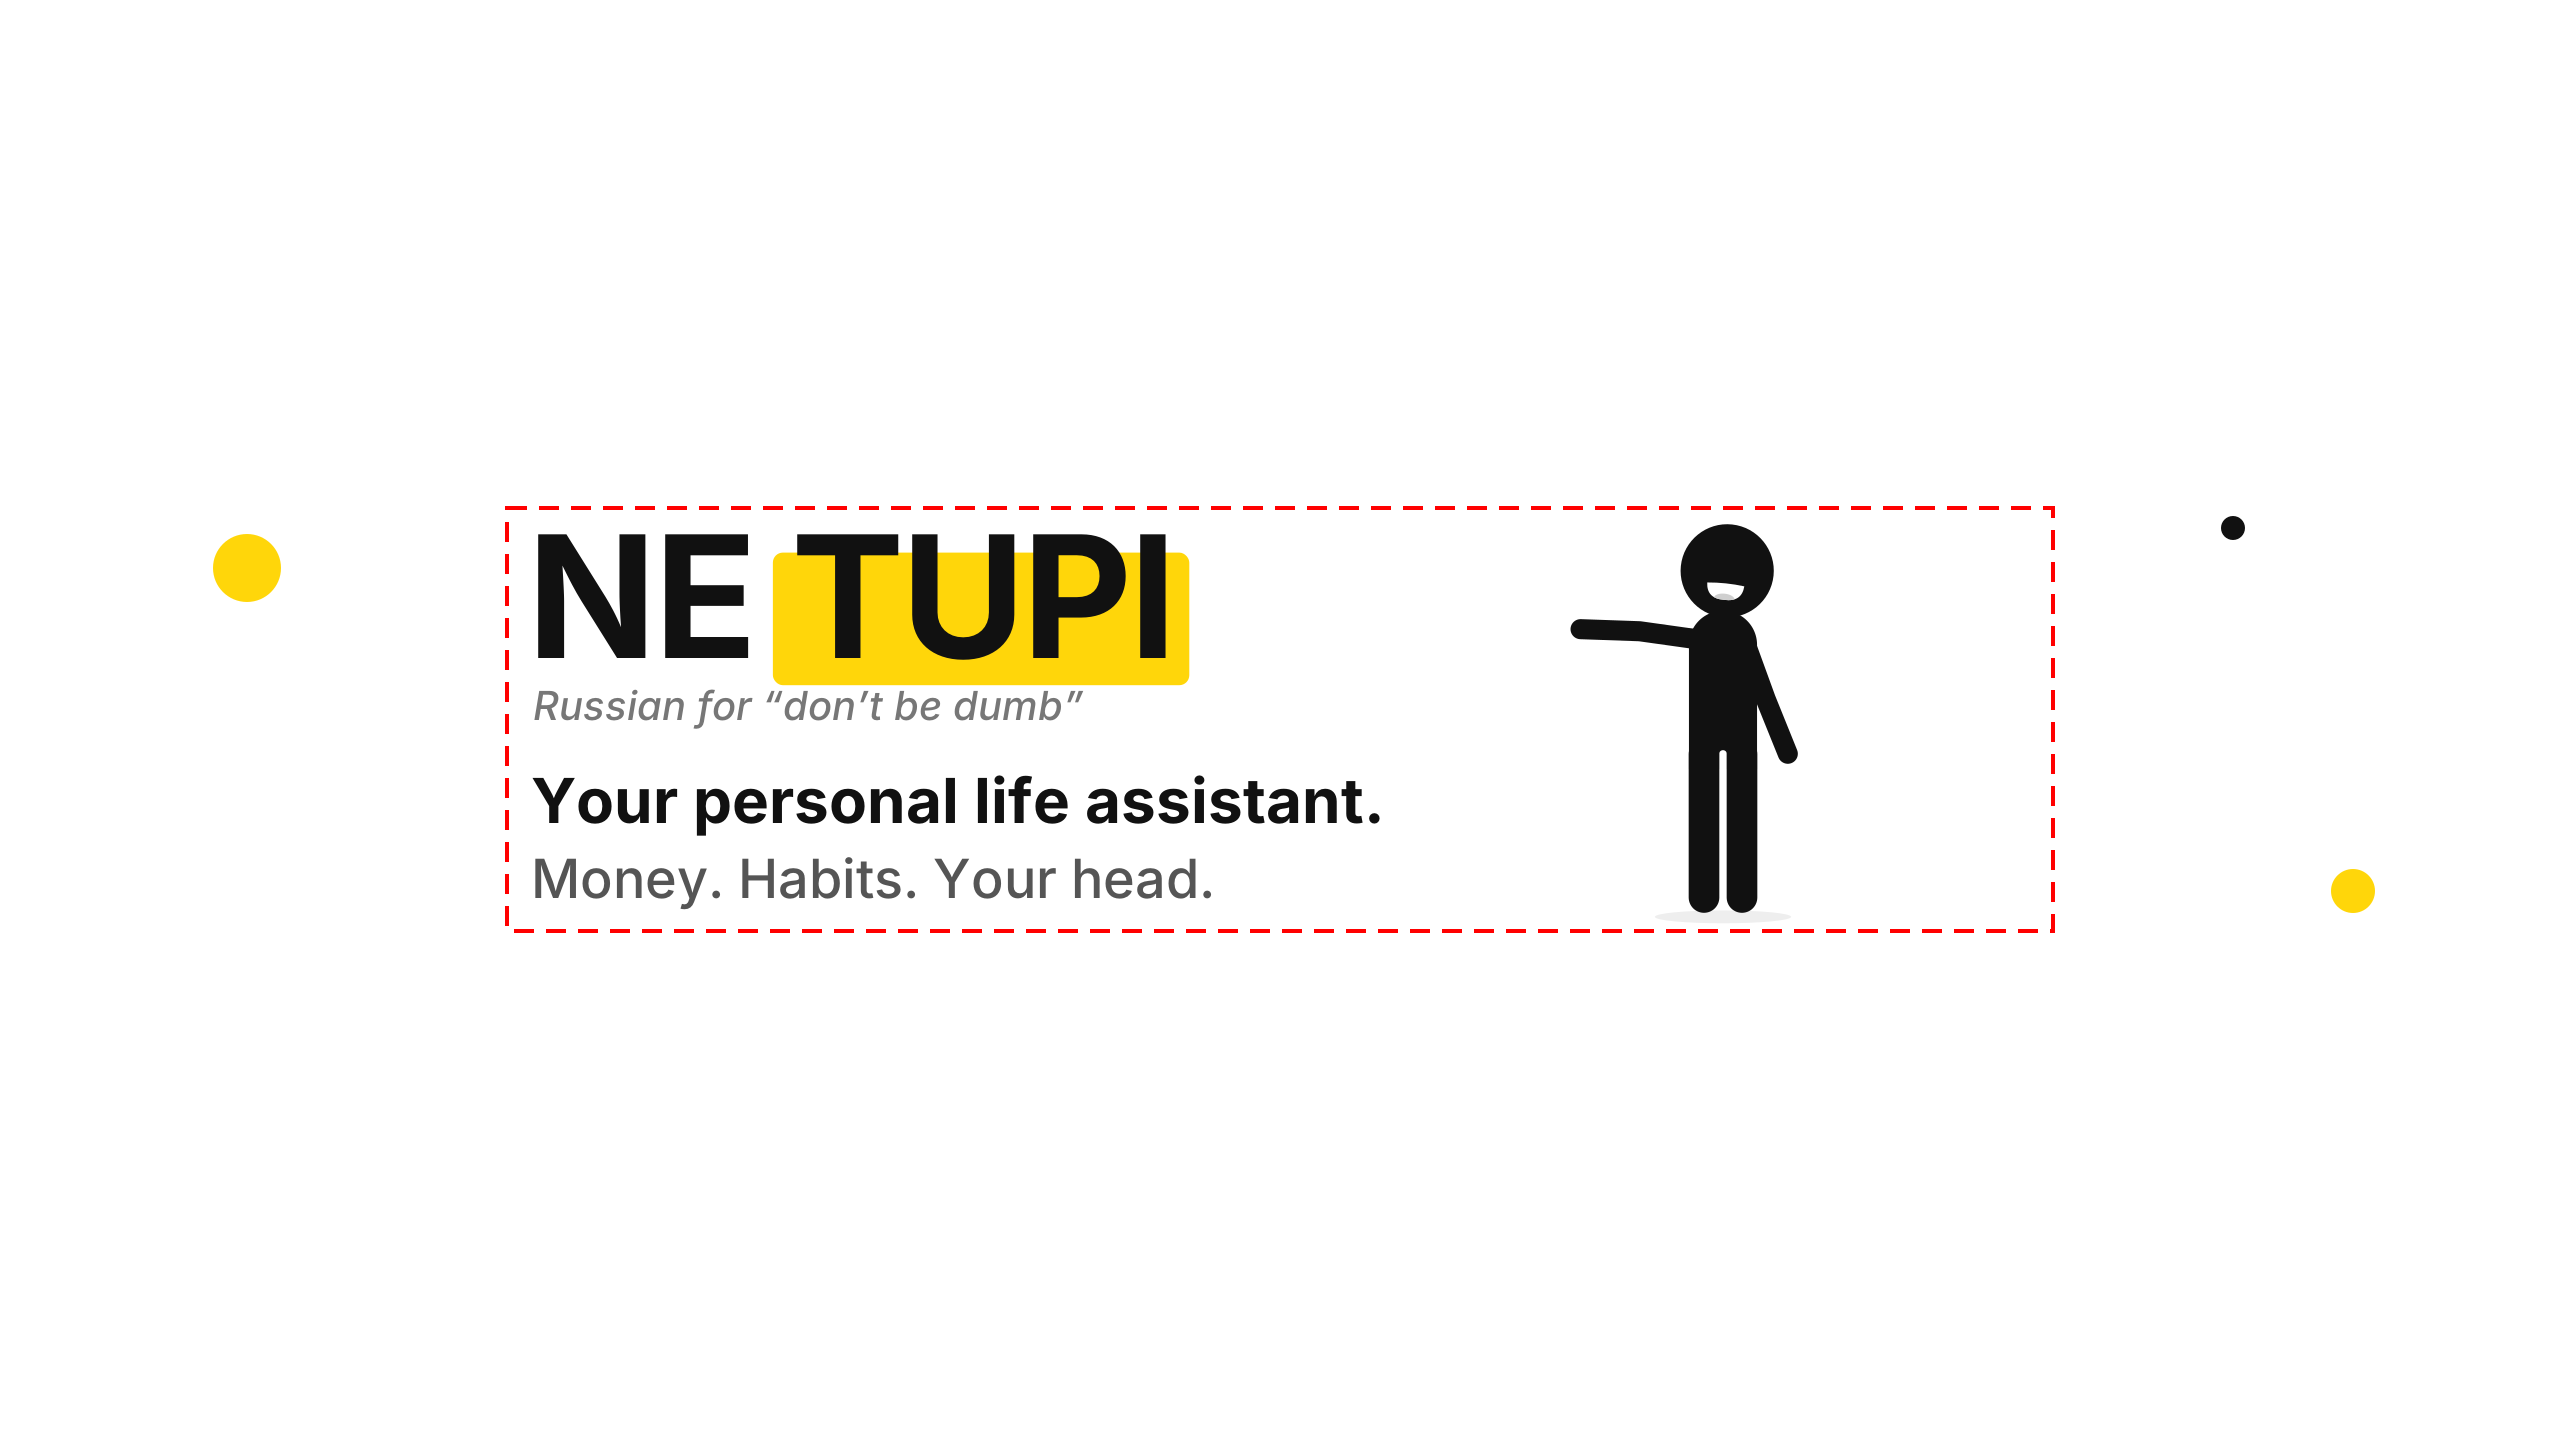
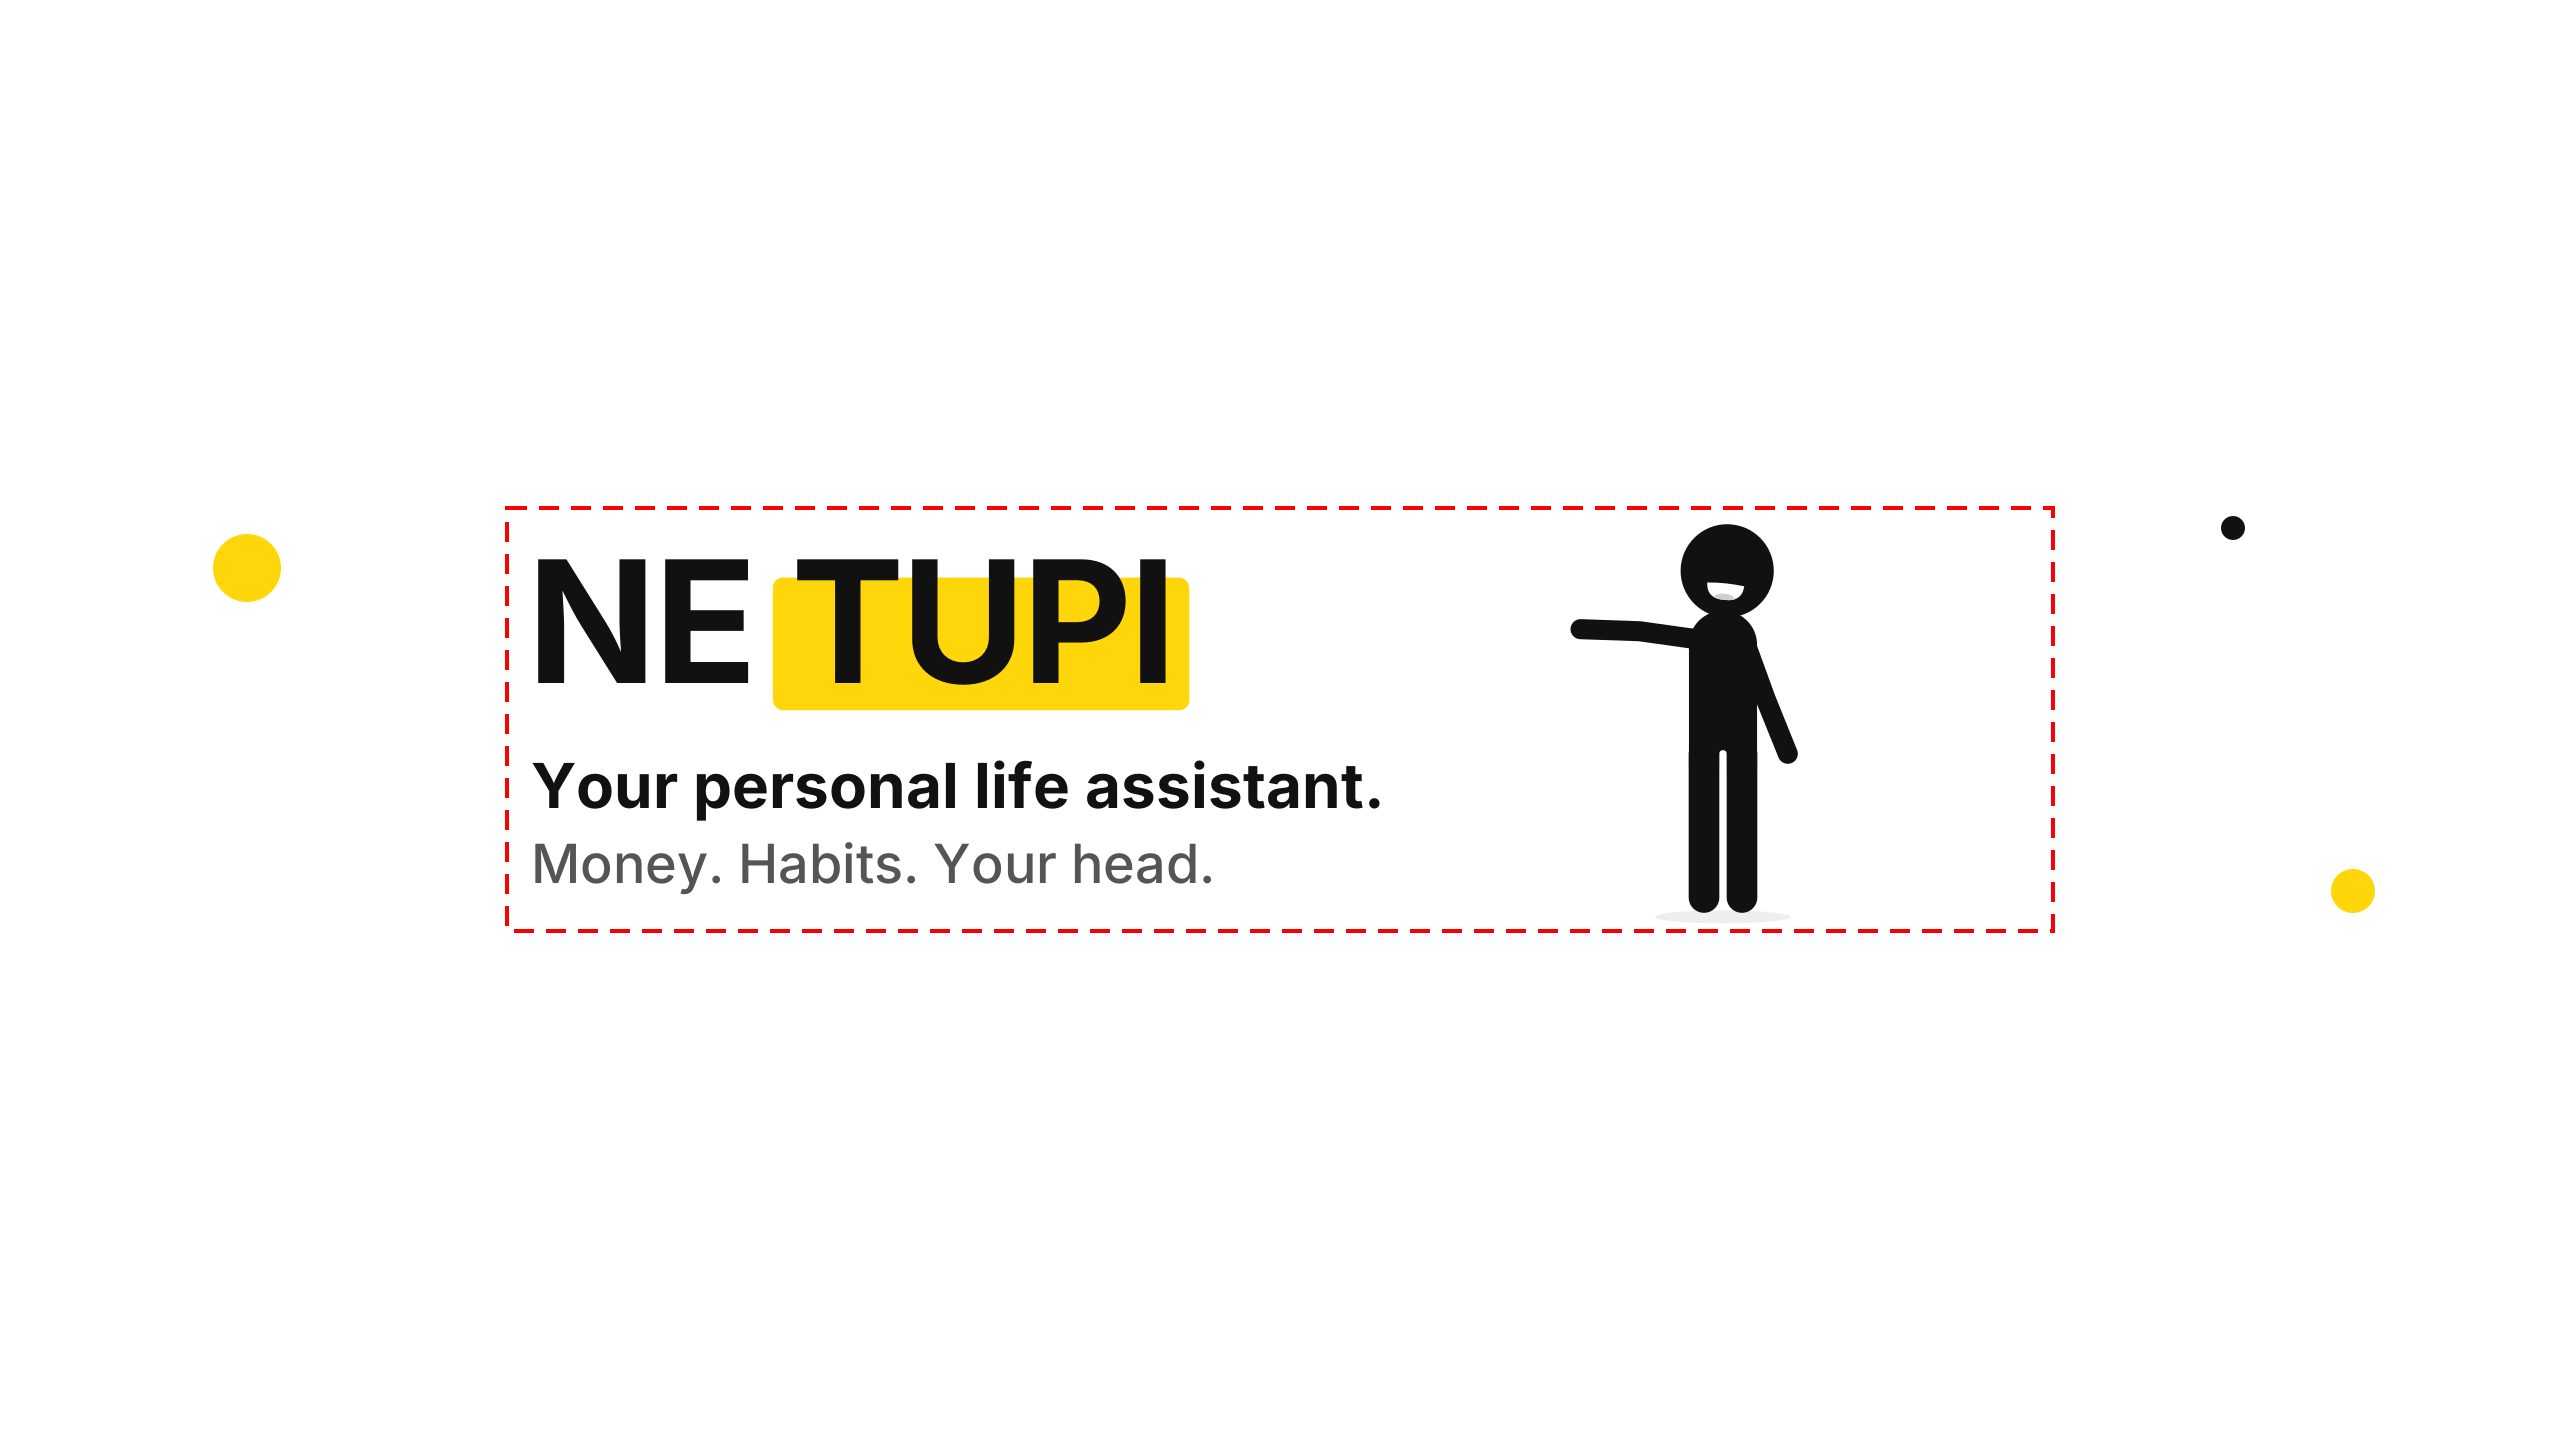
Шапка YouTube без подписи Russian for don't be dumb
Claude-Session: https://claude.ai/code/session_01FderYxZ8EHt7Sxy54xymar

Changed region(s): [[0.1875, 0.3438, 0.4688, 0.5], [0.1875, 0.5312, 0.5312, 0.625]]

diff --git a/ne-tupi/branding/youtube-en/banner.py b/ne-tupi/branding/youtube-en/banner.py
@@ -8,7 +8,6 @@ W, H = 2560, 1440
 SX, SY, SW, SH = (W - 1546) // 2, (H - 423) // 2, 1546, 423   # safe area (all devices)
 YEL, INK = "#FFD60A", "#111111"
 NAME = "NE TUPI"
-GLOSS = "Russian for &#8220;don&#8217;t be dumb&#8221;"
 TAG1 = "Your personal life assistant."
 TAG2 = "Money. Habits. Your head."
 
@@ -20,7 +19,7 @@ def fig(x, y, h, **pose):
 def banner(out, guides=False):
     words = NAME.rsplit(" ", 1)
     fs = 170
-    tx, ty = SX + 20, SY + 150
+    tx, ty = SX + 20, SY + 175
     # yellow marker behind the last word
     from PIL import ImageFont
     f = ImageFont.truetype("/usr/share/fonts/opentype/inter/Inter-Black.otf", fs)
@@ -35,9 +34,8 @@ def banner(out, guides=False):
         f'<circle cx="{SX+SW+180}" cy="{SY+20}" r="12" fill="{INK}"/>',
         f'<rect x="{tx+first_w-14}" y="{ty-fs*0.62}" width="{last_w+28}" height="{fs*0.78}" rx="10" fill="{YEL}"/>',
         f'<text x="{tx}" y="{ty}" font-family="Inter" font-weight="900" font-size="{fs}" fill="{INK}" letter-spacing="-3">{NAME}</text>',
-        f'<text x="{tx+6}" y="{ty+62}" font-family="Inter" font-style="italic" font-weight="500" font-size="40" fill="#777">{GLOSS}</text>',
-        f'<text x="{tx+4}" y="{ty+165}" font-family="Inter" font-weight="800" font-size="62" fill="{INK}">{TAG1}</text>',
-        f'<text x="{tx+4}" y="{ty+240}" font-family="Inter" font-weight="500" font-size="54" fill="#555">{TAG2}</text>',
+        f'<text x="{tx+4}" y="{ty+125}" font-family="Inter" font-weight="800" font-size="62" fill="{INK}">{TAG1}</text>',
+        f'<text x="{tx+4}" y="{ty+200}" font-family="Inter" font-weight="500" font-size="54" fill="#555">{TAG2}</text>',
         fig(SX + SW - 330, SY + 16, 395, mouth="smile", la=(98, -6), ra=(20, 2), head=6),
     ]
     if guides:

diff --git a/ne-tupi/branding/youtube-en/channel-texts-en.md b/ne-tupi/branding/youtube-en/channel-texts-en.md
@@ -1,6 +1,6 @@
 # Ne Tupi — YouTube channel setup (English, US audience)
 
-Name stays **Ne Tupi** (approved 2026-11-10). It is explained everywhere as *Russian for "don't be dumb"*.
+Name stays **Ne Tupi** (approved 2026-11-10). The banner has no "Russian for..." line; the explanation lives only in the description.
 Style: black-and-white on white, yellow accent #FFD60A, the black figure with only a mouth. No Liquid Glass.
 
 ---
